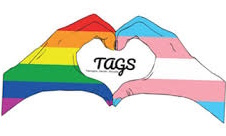
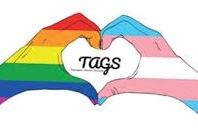
regular image ratio

Changed region(s): [[0.0, 0.0909, 1.0, 0.9091]]

diff --git a/src/app/home/groups/groups.component.scss b/src/app/home/groups/groups.component.scss
@@ -44,12 +44,6 @@
             mat-card-actions{
                 background: rgb(30, 26, 29);
             }
-
-            >img{
-                max-height: 300px;
-                width: fit-content;
-                align-self: center;
-            }
         }
 
         mat-list-item{
